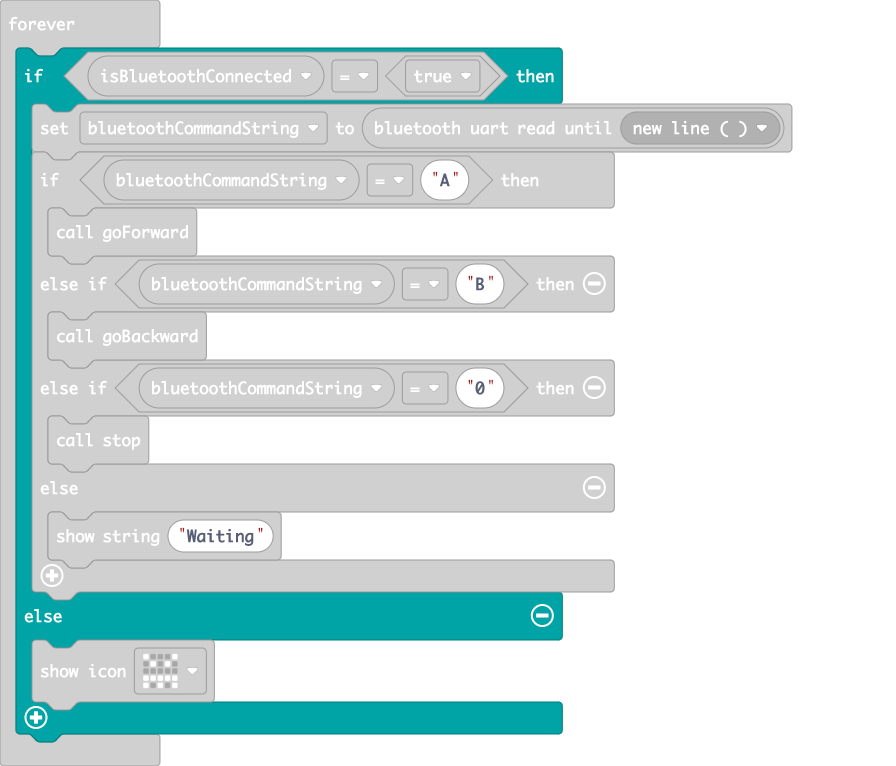
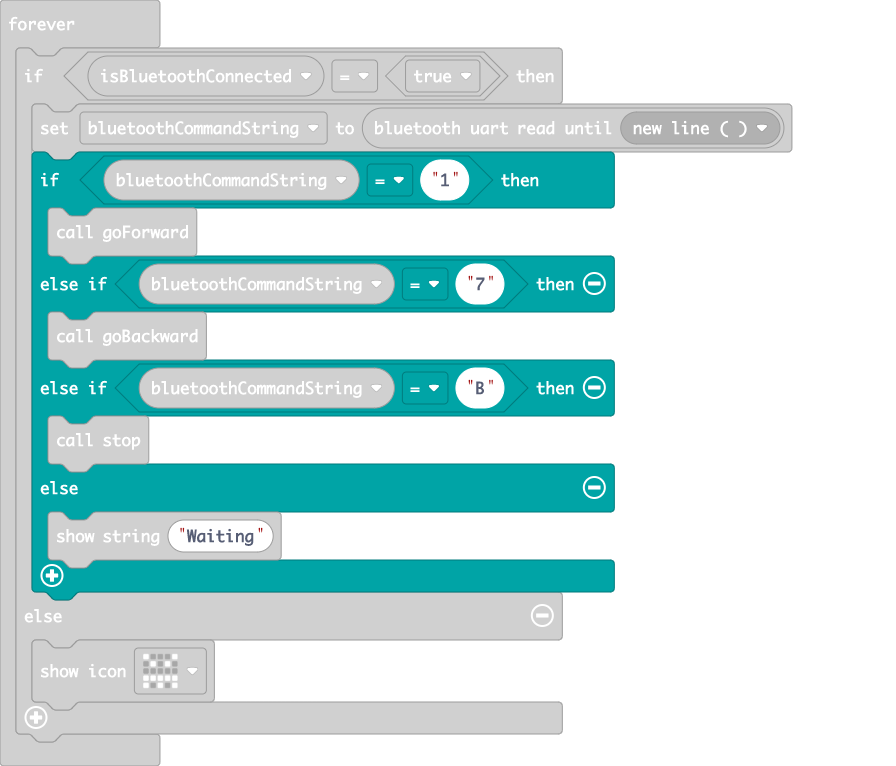
Update main.blocks, main.ts

Changed region(s): [[0.0, 0.0601, 0.6875, 0.9909]]

diff --git a/main.ts b/main.ts
@@ -33,11 +33,11 @@ bluetooth.startUartService()
 basic.forever(function () {
     if (isBluetoothConnected == true) {
         bluetoothCommandString = bluetooth.uartReadUntil(serial.delimiters(Delimiters.NewLine))
-        if (bluetoothCommandString == "A") {
+        if (bluetoothCommandString == "1") {
             goForward()
-        } else if (bluetoothCommandString == "B") {
+        } else if (bluetoothCommandString == "7") {
             goBackward()
-        } else if (bluetoothCommandString == "0") {
+        } else if (bluetoothCommandString == "B") {
             stop()
         } else {
             basic.showString("Waiting")
